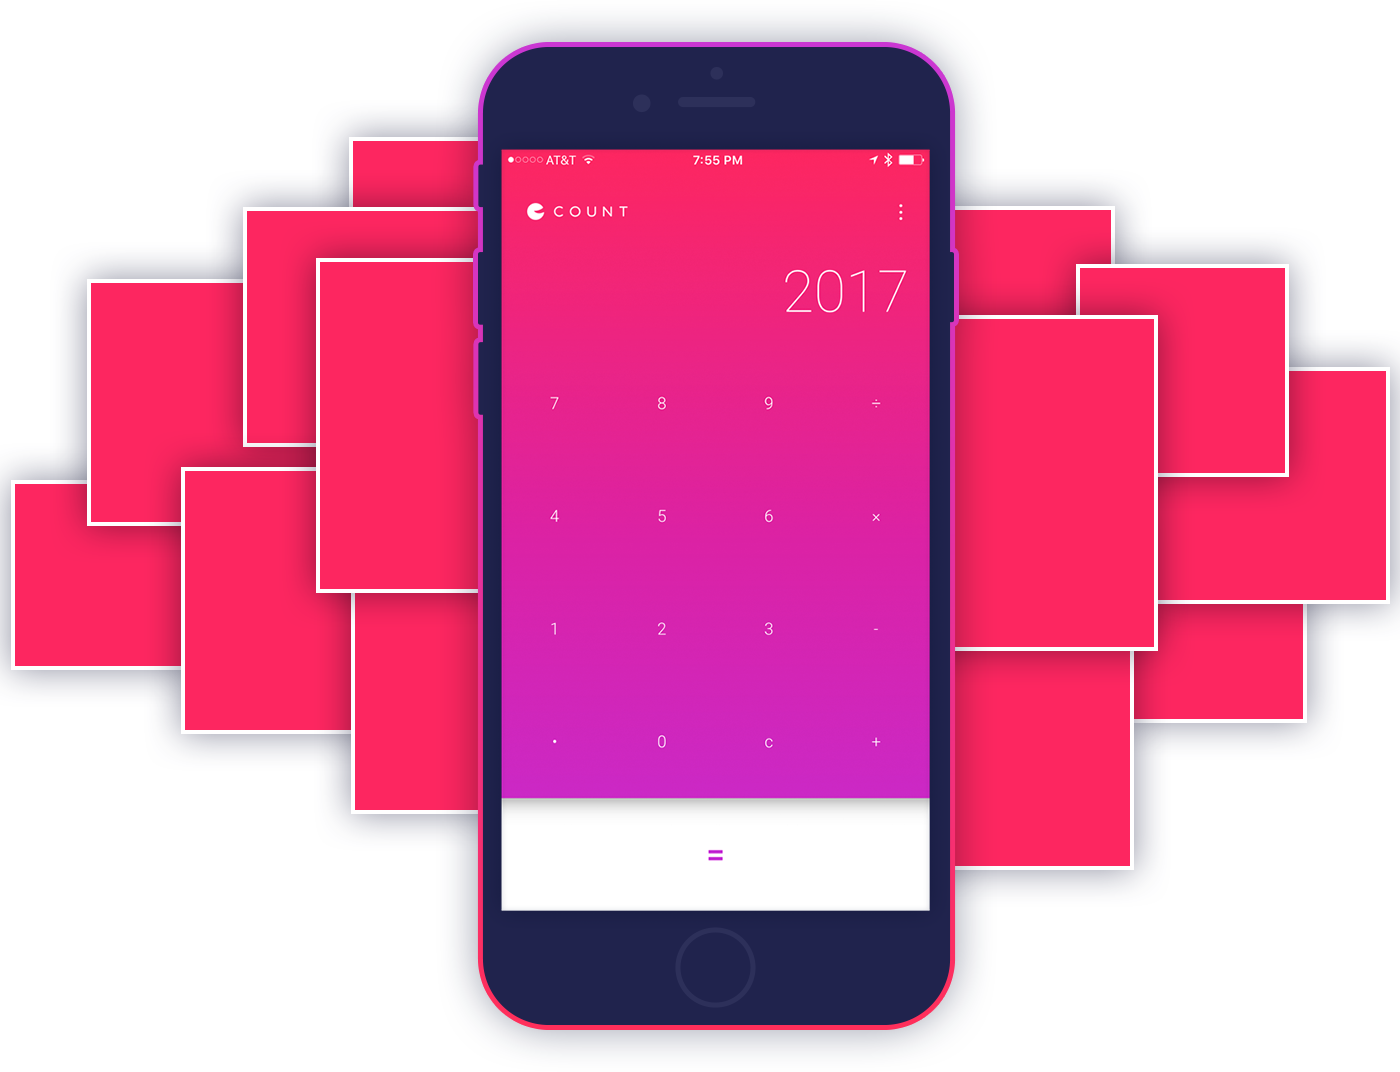
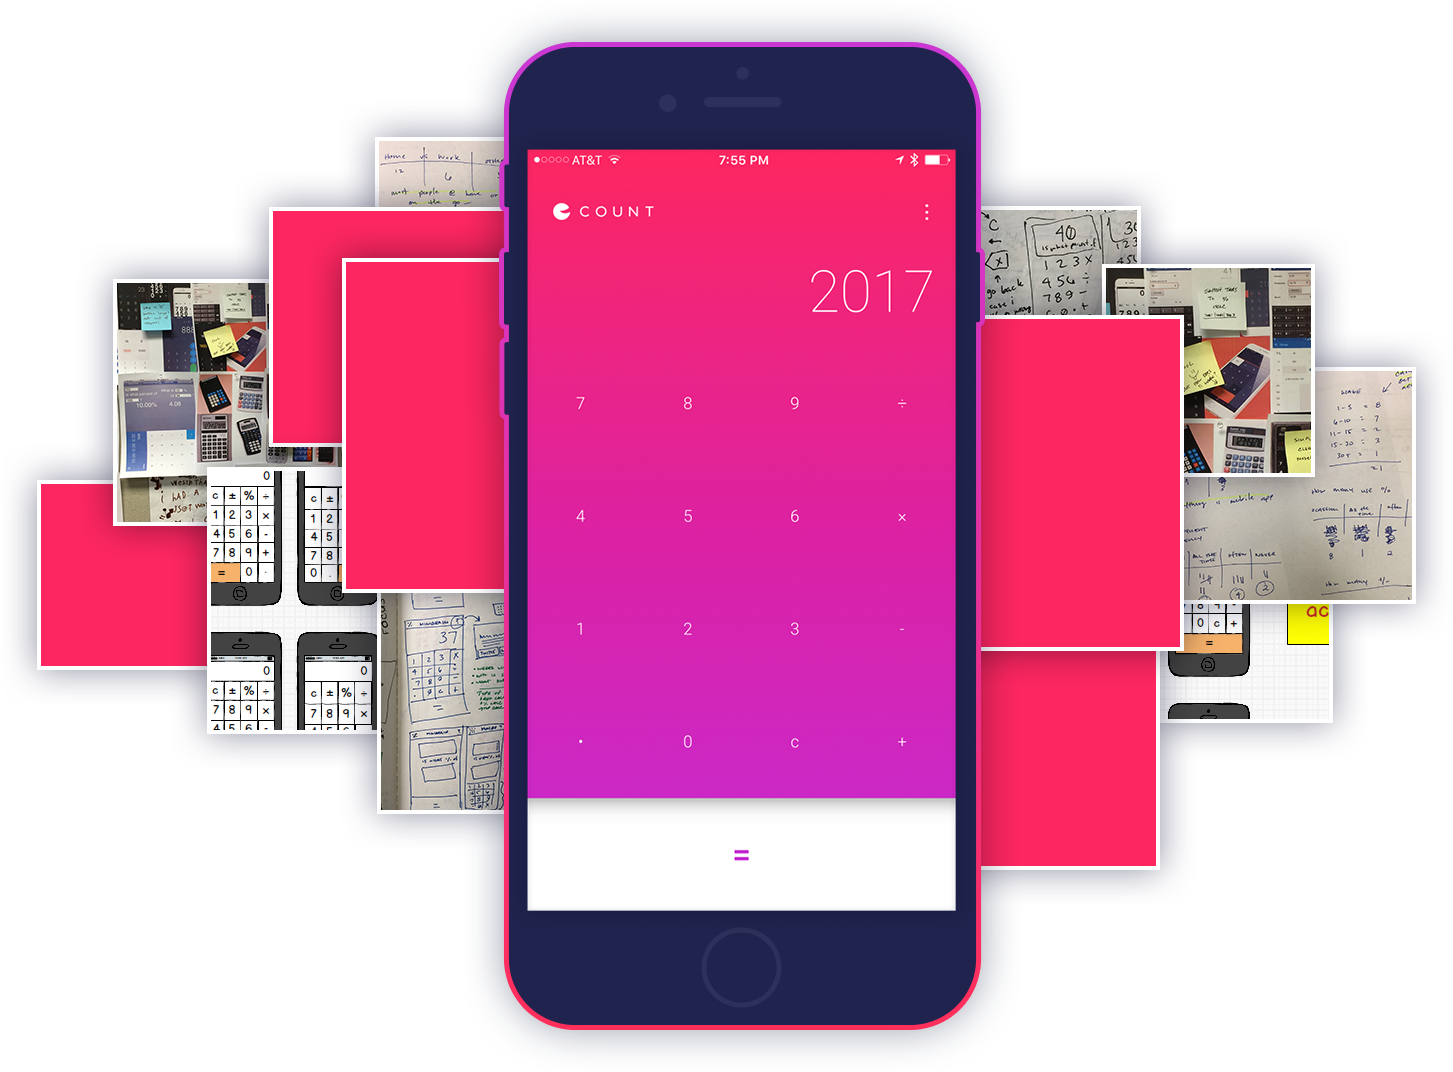
:heavy_plus_sign: Add hero image

Changed region(s): [[0.5529, 0.0308, 1.0, 0.9543], [0.0, 0.0308, 0.4607, 0.9543], [0.4914, 0.1231, 0.5221, 0.1539]]

diff --git a/count.html b/count.html
@@ -30,7 +30,7 @@
 	
 	<figure>
   	<img src="images/count/count-collage.png" alt="">
-  	<figcaption>Duis mollis, est non commodo luctus, nisi erat porttitor ligula, eget lacinia odio sem nec elit.</figcaption>
+  	<figcaption>A glimpse behind the scenes to see how it all was done.</figcaption>
 	</figure>
 	
 	<h3>Problem</h3>
